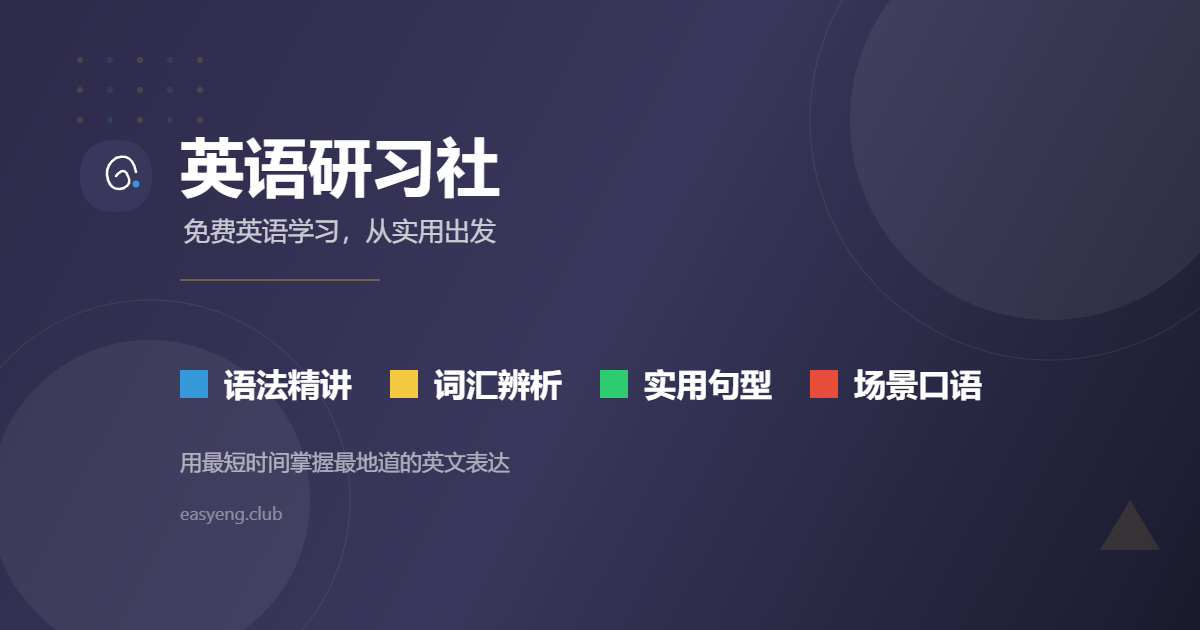
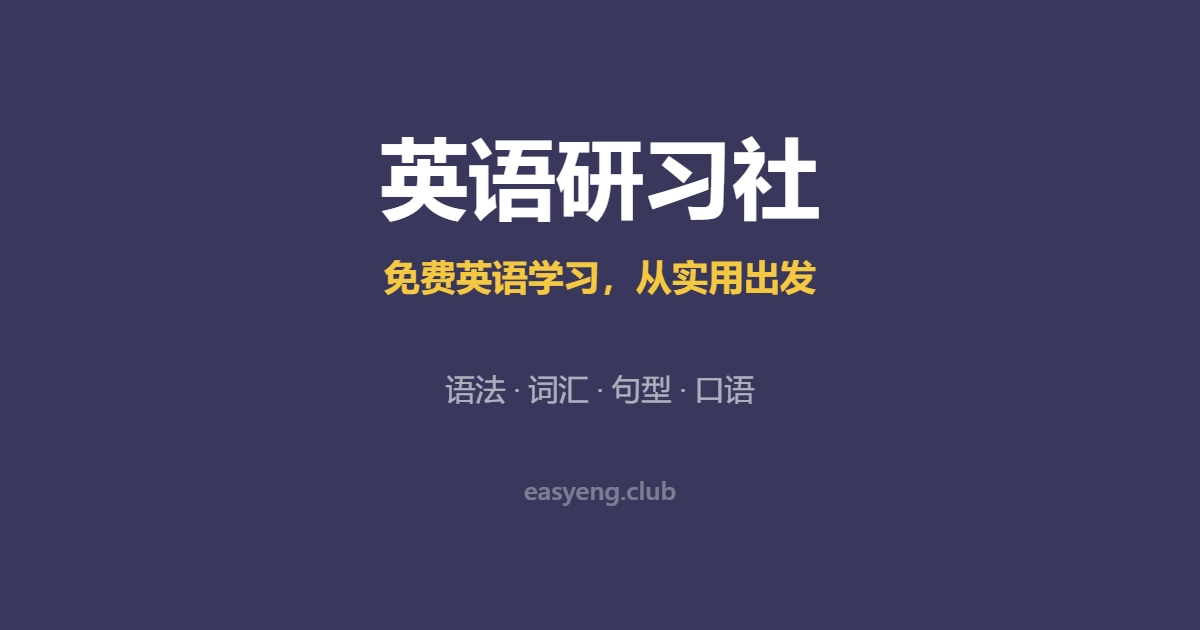
更新OG分享图：极简居中设计，适配社媒1:1正方裁切

diff --git a/og-image-generator.html b/og-image-generator.html
@@ -1,0 +1,67 @@
+<!DOCTYPE html>
+<html lang="zh-CN">
+<head>
+<meta charset="UTF-8">
+<meta name="viewport" content="width=device-width, initial-scale=1">
+<title>OG 分享图生成器 — 英语研习社</title>
+<style>
+body{font-family:'Segoe UI','PingFang SC','Microsoft YaHei',sans-serif;background:#e8e8e8;display:flex;flex-direction:column;align-items:center;padding:30px 20px 50px;gap:16px}
+h2{color:#39375b;margin:0}
+canvas{border-radius:12px;box-shadow:0 4px 28px rgba(0,0,0,.15);max-width:600px;width:100%;height:auto}
+button{padding:14px 36px;font-size:16px;font-weight:600;color:#fff;background:#39375b;border:none;border-radius:10px;cursor:pointer;font-family:inherit;transition:background .2s}
+button:hover{background:#2d2a4a}
+.info{font-size:13px;color:#999;margin:0;text-align:center;max-width:500px;line-height:1.6}
+</style>
+</head>
+<body>
+<h2>英语研习社 · 社交分享图</h2>
+<canvas id="c" width="1200" height="630"></canvas>
+<button id="dlBtn">下载 og-image.png</button>
+<p class="info">社交平台手机端通常裁成 1:1 正方 — 设计保证核心内容居中可见</p>
+
+<script>
+(function(){
+var c=document.getElementById('c');
+var ctx=c.getContext('2d');
+var W=1200,H=630;
+var cx=W/2; // 水平中心
+
+// 背景
+ctx.fillStyle='#39375b';
+ctx.fillRect(0,0,W,H);
+
+// 金底条
+ctx.fillRect(0,626,W,4);
+
+// ===== 主标题 =====
+ctx.textAlign='center';
+ctx.fillStyle='#fff';
+ctx.font='800 88px "Segoe UI","PingFang SC","Microsoft YaHei",sans-serif';
+ctx.fillText('英语研习社',cx,210);
+
+// ===== 副标题 =====
+ctx.fillStyle='#f5c842';
+ctx.font='600 36px "Segoe UI","PingFang SC","Microsoft YaHei",sans-serif';
+ctx.fillText('免费英语学习，从实用出发',cx,290);
+
+// ===== 简短说明 =====
+ctx.fillStyle='rgba(255,255,255,0.6)';
+ctx.font='400 30px "Segoe UI","PingFang SC","Microsoft YaHei",sans-serif';
+ctx.fillText('语法 · 词汇 · 句型 · 口语',cx,400);
+
+// ===== 域名 =====
+ctx.fillStyle='rgba(255,255,255,0.35)';
+ctx.font='500 26px "Segoe UI","PingFang SC","Microsoft YaHei",sans-serif';
+ctx.fillText('easyeng.club',cx,500);
+
+// 下载
+document.getElementById('dlBtn').addEventListener('click',function(){
+    var link=document.createElement('a');
+    link.download='og-image.png';
+    link.href=c.toDataURL('image/png');
+    link.click();
+});
+})();
+</script>
+</body>
+</html>
